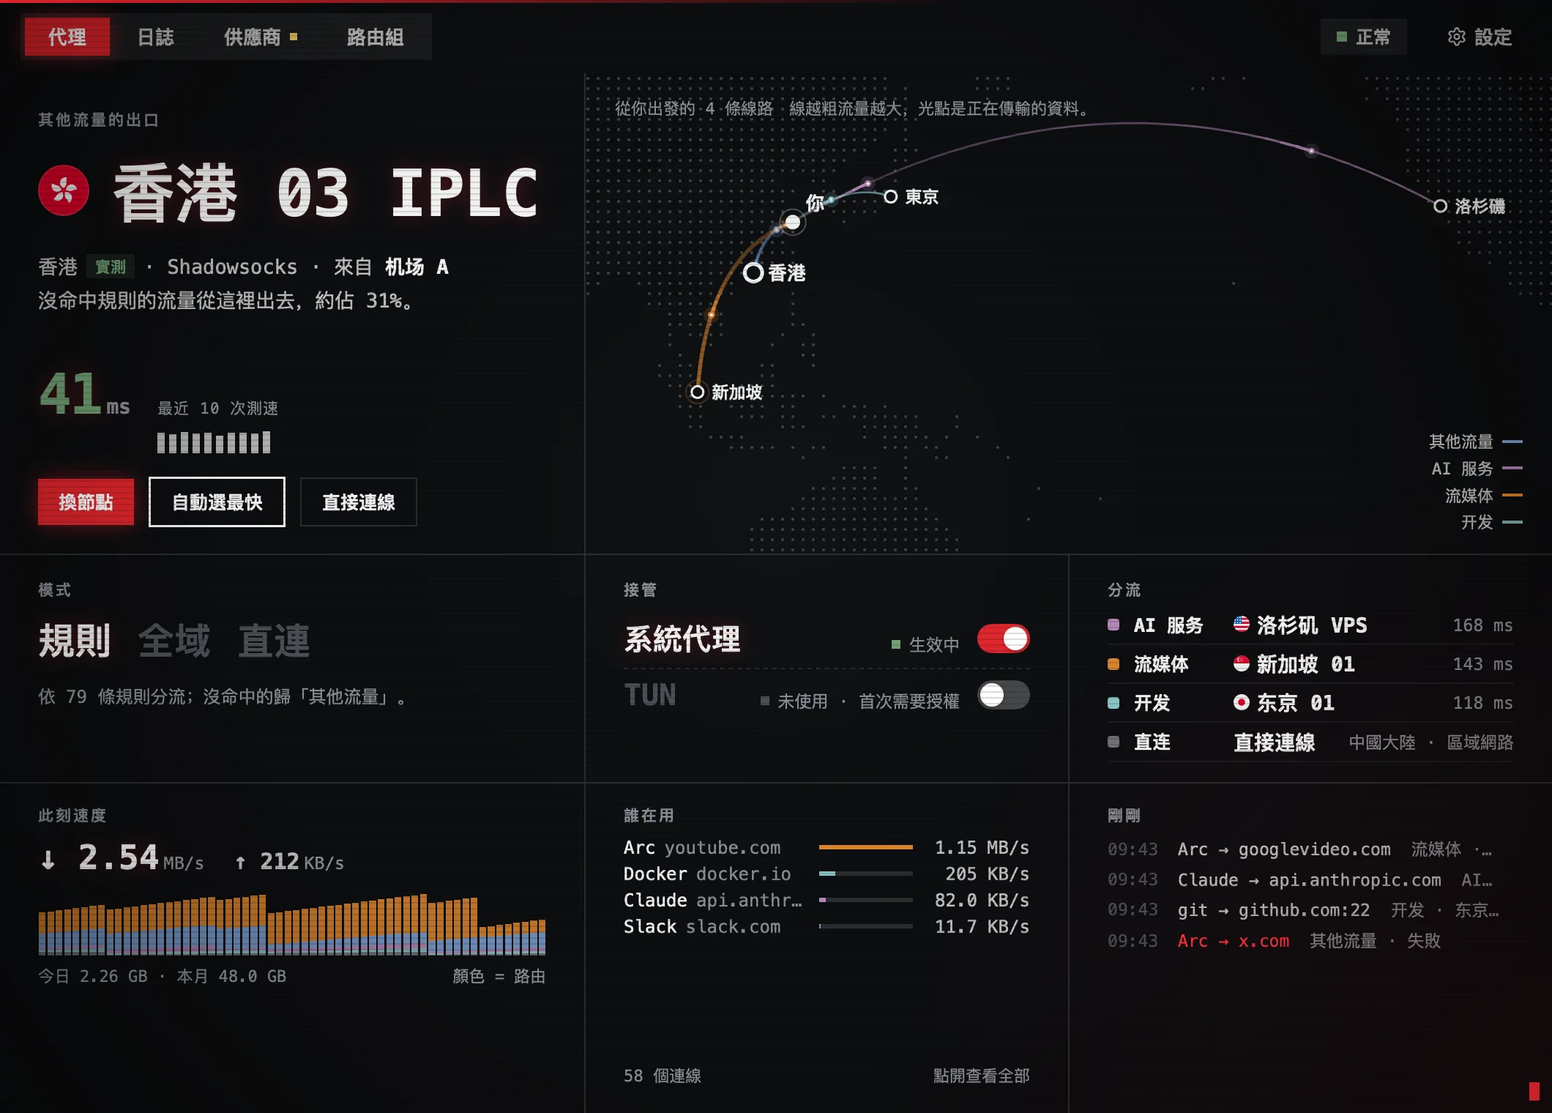
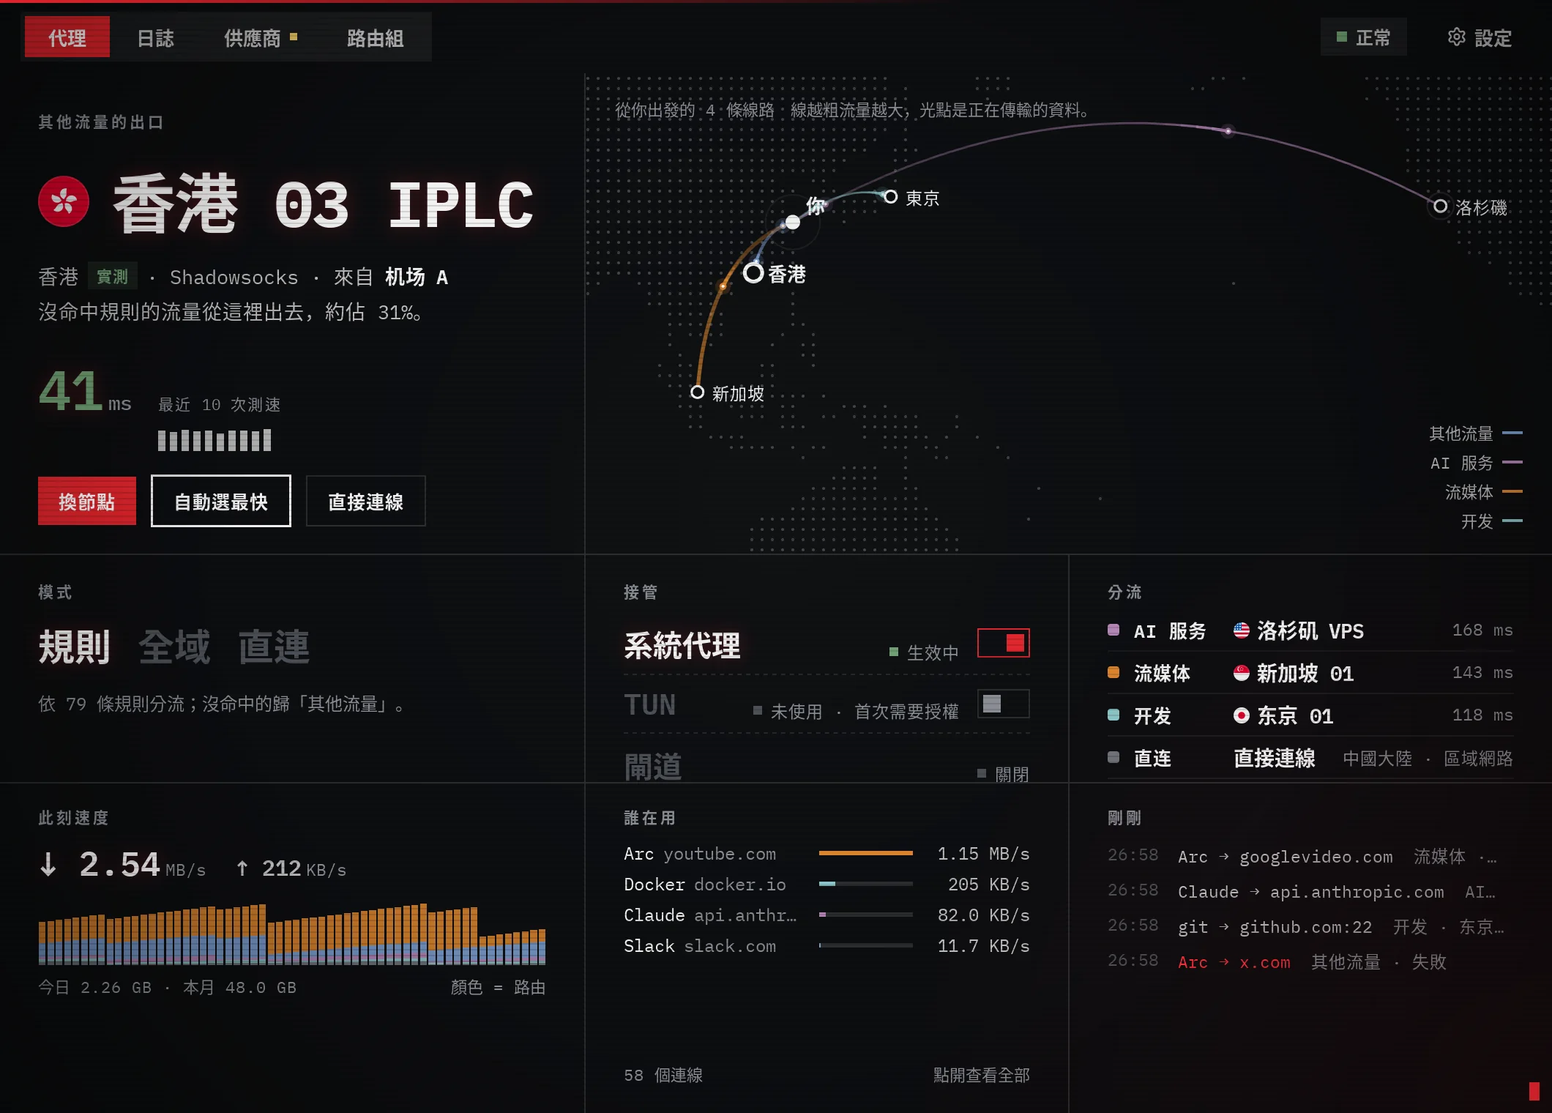
Show The Machine and Samaritan on the website and in the docs
The website, both READMEs and the architecture notes now count sixteen looks and name the two new ones. The website gets a tab, a note and a picture for each in its four languages, and Mr. Robot's pictures are taken again so they show its square switch, grey sidebar icons and solid failure tags.

The changelog says what the two skins are, what changed in Mr. Robot, and that monospace skins now fit their labels and use IBM Plex Mono on Linux and Windows.

diff --git a/site/index.html b/site/index.html
@@ -8,10 +8,10 @@
 <meta name="viewport" content="width=device-width, initial-scale=1">
 <!--zh-->
 <title>bowel：macOS、Windows、Linux、Android 上的 mihomo（Clash Meta）客户端</title>
-<meta name="description" content="bowel 是免费的 mihomo（Clash Meta）代理客户端，支持 macOS、Windows、Linux 和 Android：导入订阅，管理节点、路由和规则，查看每条连接，十四种皮肤可选。">
+<meta name="description" content="bowel 是免费的 mihomo（Clash Meta）代理客户端，支持 macOS、Windows、Linux 和 Android：导入订阅，管理节点、路由和规则，查看每条连接，十六种皮肤可选。">
 <link rel="canonical" href="https://bowel.dev/">
 <meta property="og:title" content="bowel：macOS、Windows、Linux、Android 上的 mihomo（Clash Meta）客户端">
-<meta property="og:description" content="bowel 是免费的 mihomo（Clash Meta）代理客户端，支持 macOS、Windows、Linux 和 Android：导入订阅，管理节点、路由和规则，查看每条连接，十四种皮肤可选。">
+<meta property="og:description" content="bowel 是免费的 mihomo（Clash Meta）代理客户端，支持 macOS、Windows、Linux 和 Android：导入订阅，管理节点、路由和规则，查看每条连接，十六种皮肤可选。">
 <meta property="og:url" content="https://bowel.dev/">
 <meta property="og:image" content="https://bowel.dev/og-zh.png">
 <script type="application/ld+json">
@@ -19,7 +19,7 @@
   "@context": "https://schema.org",
   "@type": "SoftwareApplication",
   "name": "bowel",
-  "description": "bowel 是免费的 mihomo（Clash Meta）代理客户端，支持 macOS、Windows、Linux 和 Android：导入订阅，管理节点、路由和规则，查看每条连接，十四种皮肤可选。",
+  "description": "bowel 是免费的 mihomo（Clash Meta）代理客户端，支持 macOS、Windows、Linux 和 Android：导入订阅，管理节点、路由和规则，查看每条连接，十六种皮肤可选。",
   "url": "https://bowel.dev/",
   "image": "https://bowel.dev/shots/home-zh.webp",
   "applicationCategory": "UtilitiesApplication",
@@ -33,10 +33,10 @@
 <!--/zh-->
 <!--en-->
 <title>bowel: mihomo (Clash Meta) client for macOS, Windows, Linux &amp; Android</title>
-<meta name="description" content="bowel is a free mihomo (Clash Meta) proxy client for macOS, Windows, Linux and Android: import subscriptions, manage nodes, routes and rules, see every connection, and choose from fourteen skins.">
+<meta name="description" content="bowel is a free mihomo (Clash Meta) proxy client for macOS, Windows, Linux and Android: import subscriptions, manage nodes, routes and rules, see every connection, and choose from sixteen skins.">
 <link rel="canonical" href="https://bowel.dev/en/">
 <meta property="og:title" content="bowel: mihomo (Clash Meta) client for macOS, Windows, Linux &amp; Android">
-<meta property="og:description" content="bowel is a free mihomo (Clash Meta) proxy client for macOS, Windows, Linux and Android: import subscriptions, manage nodes, routes and rules, see every connection, and choose from fourteen skins.">
+<meta property="og:description" content="bowel is a free mihomo (Clash Meta) proxy client for macOS, Windows, Linux and Android: import subscriptions, manage nodes, routes and rules, see every connection, and choose from sixteen skins.">
 <meta property="og:url" content="https://bowel.dev/en/">
 <meta property="og:image" content="https://bowel.dev/og-en.png">
 <script type="application/ld+json">
@@ -44,7 +44,7 @@
   "@context": "https://schema.org",
   "@type": "SoftwareApplication",
   "name": "bowel",
-  "description": "bowel is a free mihomo (Clash Meta) proxy client for macOS, Windows, Linux and Android: import subscriptions, manage nodes, routes and rules, see every connection, and choose from fourteen skins.",
+  "description": "bowel is a free mihomo (Clash Meta) proxy client for macOS, Windows, Linux and Android: import subscriptions, manage nodes, routes and rules, see every connection, and choose from sixteen skins.",
   "url": "https://bowel.dev/en/",
   "image": "https://bowel.dev/shots/home-en.webp",
   "applicationCategory": "UtilitiesApplication",
@@ -113,8 +113,8 @@
     <span class="en">Connect two worlds</span>
   </p>
   <p class="lede">
-    <span class="zh">管理节点、路由和规则，查看每条连接，还有十四种皮肤可选。</span>
-    <span class="en">Manage nodes, routes and rules, see every connection, and choose from fourteen skins.</span>
+    <span class="zh">管理节点、路由和规则，查看每条连接，还有十六种皮肤可选。</span>
+    <span class="en">Manage nodes, routes and rules, see every connection, and choose from sixteen skins.</span>
   </p>
   <!-- One platform at a time. site.js picks the visitor's, points the links at
        the latest release's files, and copies this block into #download. -->
@@ -180,7 +180,7 @@
 <!-- Skins -->
 <section id="skins" class="skins">
   <p class="tag"><span class="zh">皮肤</span><span class="en">Skins</span></p>
-  <h2><span class="zh">十四种皮肤</span><span class="en">Fourteen skins</span></h2>
+  <h2><span class="zh">十六种皮肤</span><span class="en">Sixteen skins</span></h2>
   <p class="sub"><span class="zh">配色、字体、圆角和质感一起变，底层功能完全一样。</span><span class="en">Colors, typography, corners, and texture all change together, while core features stay identical.</span></p>
   <div class="skin-tabs" role="tablist">
     <button role="tab" aria-selected="true" data-skin="paper" style="--a:#DDFB4C"><i></i><span class="zh">纸墨</span><span class="en">Paper</span></button>
@@ -197,6 +197,8 @@
     <button role="tab" data-skin="obsidian" style="--a:#FF7A1A"><i></i><span class="zh">黑曜</span><span class="en">Obsidian</span></button>
     <button role="tab" data-skin="riso" style="--a:#FF48A0"><i></i><span class="zh">孔版</span><span class="en">Riso</span></button>
     <button role="tab" data-skin="mrrobot" style="--a:#E0242B"><i></i><span class="zh">黑客军团</span><span class="en">Mr. Robot</span></button>
+    <button role="tab" data-skin="machine" style="--a:#F2E02A"><i></i><span class="zh">The Machine</span><span class="en">The Machine</span></button>
+    <button role="tab" data-skin="samaritan" style="--a:#E3202B"><i></i><span class="zh">Samaritan</span><span class="en">Samaritan</span></button>
   </div>
   <p class="skin-note">
     <span data-note="paper"><span class="zh">暖白纸面与墨色，克制安详</span><span class="en">Warm white paper and deep ink, quiet and minimal</span></span>
@@ -213,6 +215,8 @@
     <span data-note="obsidian" hidden><span class="zh">纯黑、细线与一点余烬的橙</span><span class="en">True black, hairlines and one ember of orange</span></span>
     <span data-note="riso" hidden><span class="zh">孔版印刷：蓝墨、荧光粉与网点</span><span class="en">Risograph print: blue ink, fluorescent pink and halftone dots</span></span>
     <span data-note="mrrobot" hidden><span class="zh">入夜的终端：近黑底、冷灰等宽字与一抹 fsociety 红</span><span class="en">A terminal after dark: near-black, cold gray monospace and one fsociety red</span></span>
+    <span data-note="machine" hidden><span class="zh">监控画面：黑底、白字、黄色的方框与角括号</span><span class="en">A surveillance feed: black, white type, yellow boxes and corner brackets</span></span>
+    <span data-note="samaritan" hidden><span class="zh">另一台机器：等宽字、细网格与一种红</span><span class="en">The other machine: monospace, a fine grid and one red</span></span>
   </p>
   <figure class="window skin-window">
     <img id="skin-img" src="shots/skin-paper-zh.webp" width="1060" height="760" loading="lazy" alt="bowel 的皮肤预览" en:alt="A preview of bowel's skins">

diff --git a/docs/architecture.md b/docs/architecture.md
@@ -17,7 +17,7 @@ The product logic is in [product-ia.md](product-ia.md); the approved interaction
 - **Monitoring** (`internal/monitor`). bowel polls connections every second while the window or the menu bar panel is open (every 5 s otherwise) to get rates per route and per app, new connections, and closed ones. It parses failed dials from the core's log, and keeps today's and this month's totals. On macOS 27 the kernel gives a process the whole socket list, which the core needs to tell which app opened a connection and so to match a rule for an application, only when two things hold (measured on 27.2; Apple documents neither): the process's code-signing identifier has a dot in it, like a bundle identifier, and its parent is not an app or another program that is not Apple's. Otherwise the list holds the process's own sockets and nothing says so. For the second, bowel starts the core detached (`core.startCore`: a shell starts it and exits, leaving it to launchd; its output still comes on an inherited pipe, and its exit is noticed by polling the pid). For the first, the core's file among the resources is called `dev.moho.app.core.bin` on macOS (`core.BinName`): a release build signs it without naming an identifier, and `codesign` makes one of the file's name less its last extension, `dev.moho.app.core`; called `mihomo` it was signed as `mihomo`, and the 0.4.1 core named no process however it was started. `scripts/release.sh` stops a release where the identifier came out otherwise. The core as upstream ships it is signed `a.out` by the linker, which passes, and an ad hoc build leaves that signature alone. The kind of signature counts too (#131, same binary, started detached, on 27.2): ad hoc and Developer ID pass with a dot in the identifier (0.4.2's core does), while an Apple Development signature did not in any combination tried: with or without a dot or the hardened runtime, three teams, not under TUN. `mygo dev` signs everything in the bundle with an Apple Development identity when the keychain has one, so such a development build's core names no process; without one, or with `go tool mygo dev -sign -`, it signs ad hoc and leaves the core's own signature alone, and the core names them. bowel also reads the list itself (`internal/procinfo`) to name the connections the core does not look up. Under `mygo dev` bowel is itself a child of a program that is not Apple's, so there only the core's own names show. Since the names in the Log can be bowel's while the core still knows none, the monitor watches the core itself: when it has named none of the connections from this computer since it started, and five went unnamed (`monitor.Snapshot.Unnamed`; those through a route group's own port don't count, since the core doesn't look them up), with process matching set to always, the Log, its 让它走… menu and 应用 in the rule editor say that a rule for an app won't match (`Tick.AppsUnknown`). The first one it names clears that until the core restarts.
 - **TUN.** The first time you turn it on, the system asks for an administrator's authorisation, and what that buys is each system's own (`internal/tun`). On macOS bowel copies the core to `~/Library/Application Support/bowel/bin/` and makes it setuid root, the approach early Clash Verge used; a launchd helper would be the cleaner long-term design. On Linux the copy (in bowel's data directory) is given to root and the file capabilities TUN needs (`cap_net_admin`, `cap_net_bind_service`, `cap_net_raw`) under one `pkexec`, so the core still runs as the user; without `setcap` it is setuid root, and a data directory mounted `nosuid` is refused. Where systemd-resolved is in use the same `pkexec` leaves a polkit rule for the user (`/etc/polkit-1/rules.d/49-bowel-tun-<uid>.rules`), since the core calls `resolvectl` for the TUN device at every start and polkit would ask each time; `docs/platform-parity.md` says what it allows. On Windows nothing lets a program be elevated without asking, so the one UAC prompt copies the core to `%ProgramData%\bowel\tun\<SID>\`, which only administrators can write, and registers a scheduled task of the user's that runs it at the highest run level (and a second one for accounts the first cannot start for, which runs it through a copy of bowel's own program kept in the same directory, so that ending the task ends the core). The user may start and end their own task unasked, so the core manager does that in place of starting a child (`Manager.Spawn`), waits on the process, and reads its log from the controller, since such a core prints to no one. The copy does not follow an update of the app: when its version differs from the bundled core's (or, on macOS, when it is signed as `mihomo`, as the copies made before the core's file was renamed are, and so cannot tell applications apart), bowel runs the bundled core if TUN is off, and otherwise keeps the old copy and offers to replace it, which takes one authorization. The new copy replaces the old one only after that authorization.
 - **Gateway mode** (`internal/gateway`, `app_gateway.go`, `ui_gateway.go`). One switch lets other devices on the LAN set their gateway and DNS to this computer and follow bowel's rules. On macOS and Linux bowel turns IPv4 forwarding on through a sudoers rule that allows exactly the two `sysctl` commands (checked with `visudo`, installed in the same prompt as TUN), keeps the computer awake (`caffeinate`; a `systemd-inhibit` lock that ends with bowel's process), and puts DNS on `0.0.0.0:53` with fake-ip. The original forwarding value is kept in `gateway-before.json`, so a crash is undone on the next start. Forwarding, port 53 and TUN are measured; a gateway that is wanted but doesn't work makes the state 降级. On is manual: devices are pointed at this computer by hand. Automatic is a second step (`app_gateway_auto.go`, `internal/dhcp`): bowel hands out the LAN's addresses itself, with this computer as every lease's router and DNS, and only after a probe (a DISCOVER from a made-up device) found no other DHCP server; it confirms the addresses devices already hold, so taking over cuts nobody off. The devices that use the gateway (`app_devices.go`) are known from their connections' source addresses, bowel's leases and the ARP table, and shown under 日志 › 设备 with when each came and went. How to set it up and what it survives is [gateway.md](gateway.md), which `scripts/gateway-e2e.sh` checks in containers. A core that quits by itself is started again (`app_revive.go`), at growing intervals up to a minute, since a gateway has no one watching it. Windows has no gateway yet, and the interface doesn't offer one there: forwarding is per adapter and needs elevation each time, and the firewall needs rules of its own (`docs/platform-parity.md`).
-- **Skins** (`skins.go`). Fourteen looks for the whole interface: 纸墨 Paper (the default), 报刊 Broadsheet, 荧光屏 Phosphor, 霓虹 Neon, 蓝图 Blueprint, 樱 Sakura, 山水 Shanshui, 青瓷 Celadon, 敦煌 Dunhuang, 暮色 Dusk, 极光 Aurora, 黑曜 Obsidian, 孔版 Riso and 黑客军团 Mr. Robot. A skin is a palette, the faces of text and big type, corner roundness, a glow and a texture; what the interface does is the same in every skin.
+- **Skins** (`skins.go`). Sixteen looks for the whole interface: 纸墨 Paper (the default), 报刊 Broadsheet, 荧光屏 Phosphor, 霓虹 Neon, 蓝图 Blueprint, 樱 Sakura, 山水 Shanshui, 青瓷 Celadon, 敦煌 Dunhuang, 暮色 Dusk, 极光 Aurora, 黑曜 Obsidian, 孔版 Riso, 黑客军团 Mr. Robot, The Machine and Samaritan. A skin is a palette, the faces of text and big type, corner roundness, a glow and a texture. It may also say how what is chosen shows (a fill, a box of corner brackets, a block under the exit's name), how small tags are drawn, whether short Latin labels are in capitals and in which face, how the map marks its exits, and whether it has a terminal's manners (a square switch, gray sidebar icons, failures as solid tags); all of these are off unless a skin sets them. What the interface does is the same in every skin.
 - **Developer networks** (`internal/devnet`, `app_devnet.go`, `ui_devnet.go`; cases and reasons in `docs/dev-network.md`). A catalog of what is local everywhere, plus what bowel reads of this machine every 20 seconds (Tailscale, VPN routes, split DNS: `netstat` and `scutil` on macOS, iproute2 and systemd-resolved on Linux, the IP helper API and the name resolution policy table on Windows), compile into an overlay on the core's config and the system proxy's bypass list. It is never saved, so no migration and nothing left behind. Tailscale and VPNs get a direct outbound bound to their interface, because under TUN the core's DIRECT uses the default interface. In global and direct mode the core runs in rule mode with the overlay and a single `MATCH`, so the LAN and the tailnet are not sent to a node.
 - **IPv6 modes** (`core.IPv6Mode`, `internal/devnet/ipv6.go`, `app_devnet.go`). The setting is Off, Auto or On, Auto by default. Auto keeps IPv6 only while the interface traffic leaves by has a public (`2000::/3`) address and a TCP connection bound to that interface reaches a public resolver. Being bound keeps bowel's own TUN from answering, and it also proves there is a route, so routes aren't read for it. The check runs with the developer-network poll, tries the network again each minute, and needs two readings in a row to change anything, except losing the address, which counts at once. The result is never saved: like the overlay it only goes into the runtime config, as `ipv6` and `dns.ipv6`. `ipv6: false` is enough for the TUN too: mihomo then gives it no IPv6 address, and sing-tun routes no IPv6 without one. A change reopens the TUN, because its address is part of what the core compares; without TUN the reload interrupts nothing. In `settings.json` Off stays `false`, which older versions read, and Auto and On are strings; a bare `true` is from before the modes and migrates to Auto once. The mobile bridge doesn't read the network, so Auto is On there.
 - **Updating itself** (`app_update.go`, `ui_update.go`). A native binary cannot swap its code while it runs, so an update is `mygo.Updater` (signed archive or delta) followed by a restart. bowel checks the latest release 20 s after launch and every 6 hours and shows the new version in the title bar. One click downloads with progress and restarts through the ordinary quit: the system proxy and gateway go back and the core ends, so if the new version fails to come up the Mac keeps its own network. The network drops for a few seconds. Installs the app cannot write to, such as a .deb in /opt, are left to their package manager.

diff --git a/CHANGELOG.md b/CHANGELOG.md
@@ -7,6 +7,9 @@
 ## Unreleased
 
 - Android 上的路由组也可以选「走节点」或「直接连接」了，和桌面一样：在路由组页最上面切换，选直接连接后这个组命中的流量用手机的网络访问，服务和规则不用挪到「直连」；节点策略会保留，切回走节点后和原来一样。「其他流量」「直连」「拦截」三个组不变。以前手机上只有「直连」这个组能让规则直连
+- 新增两款皮肤「The Machine」和「Samaritan」，在「设置 → 通用 → 皮肤」里选。The Machine 是一块监控画面：黑底、白字，主题色是黄色；选中的标签页、分段、模式、皮肤和出口的名字不再整块涂色，而是用一圈虚线加四个角括号框起来；短的英文标签是大写的 Jost，其余是 IBM Plex Mono；地图上的出口画成小方框；窗口四角有角括号，四边有刻度，带很淡的扫描线。只有深色。Samaritan 是另一台机器：等宽字、细网格和一种红；出口的名字立在一块红底上，小标签是细线描边，地图上的出口是十字准星加带框的名字。有浅色和深色。两款的开关都是方的，「失败」「超时」是实心的红色标签。随应用带上了 Jost 和 IBM Plex Mono 两套开源字体（SIL OFL 1.1）。Android 版暂时没有这两款
+- 「黑客军团」皮肤补了几处：开关改成方的；「失败」「超时」是实心的红色标签，不再只是红字；选中的标签页、按钮和开关周围不再有红色光晕，大字的红色辉光保留；设置侧栏的图标是灰色，选中的那一行整行是红的；没有内容可加时「添加」是一个描边的按钮，不再是一块暗红
+- 等宽字的皮肤（荧光屏、黑客军团和上面两款）里几处被截断的字现在完整了：英文界面下设置侧栏的「Developer networks」、空的 Provider 页上的「Subscription」。日志页的路由筛选放不下时换到第二行，不再被右边的应用筛选切掉，这一条所有皮肤都一样。Linux 和 Windows 上「荧光屏」「黑客军团」的等宽字改用随应用带的 IBM Plex Mono，不再落到系统的等宽字；macOS 不变
 
 ## [0.4.4] - 2026-11-14
 

diff --git a/README.zh-CN.md b/README.zh-CN.md
@@ -49,7 +49,7 @@ bowel 是 macOS、Windows、Linux 和 Android 上的 <a href="https://github.com
 <img src="site/shots/panel-zh.webp" width="300" alt="菜单栏面板">
 
 ### 主题皮肤
-十四种皮肤，换的是整个界面的样子。
+十六种皮肤，换的是整个界面的样子。
 
 <table>
   <tr>
@@ -75,6 +75,10 @@ bowel 是 macOS、Windows、Linux 和 Android 上的 <a href="https://github.com
   <tr>
     <td><img src="site/shots/skin-riso-zh.webp" alt="孔版"><br><sub>孔版</sub></td>
     <td><img src="site/shots/skin-mrrobot-zh.webp" alt="黑客军团"><br><sub>黑客军团</sub></td>
+    <td><img src="site/shots/skin-machine-zh.webp" alt="The Machine"><br><sub>The Machine</sub></td>
+  </tr>
+  <tr>
+    <td><img src="site/shots/skin-samaritan-zh.webp" alt="Samaritan"><br><sub>Samaritan</sub></td>
   </tr>
 </table>
 

diff --git a/README.md b/README.md
@@ -49,7 +49,7 @@ Toggle system proxy takeover, switch proxy modes, and pick the node for traffic 
 <img src="site/shots/panel-en.webp" width="300" alt="Menu bar panel">
 
 ### Skins
-Fourteen skins that change the look of the whole interface.
+Sixteen skins that change the look of the whole interface.
 
 <table>
   <tr>
@@ -75,6 +75,10 @@ Fourteen skins that change the look of the whole interface.
   <tr>
     <td><img src="site/shots/skin-riso-en.webp" alt="Riso"><br><sub>Riso</sub></td>
     <td><img src="site/shots/skin-mrrobot-en.webp" alt="Mr. Robot"><br><sub>Mr. Robot</sub></td>
+    <td><img src="site/shots/skin-machine-en.webp" alt="The Machine"><br><sub>The Machine</sub></td>
+  </tr>
+  <tr>
+    <td><img src="site/shots/skin-samaritan-en.webp" alt="Samaritan"><br><sub>Samaritan</sub></td>
   </tr>
 </table>
 
